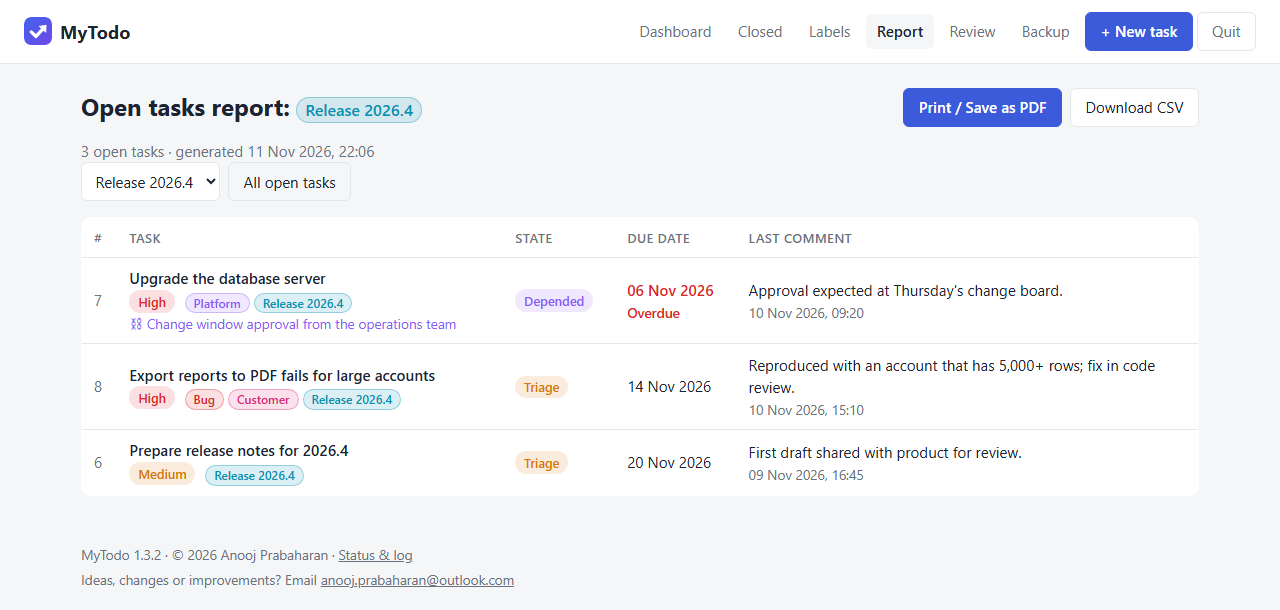
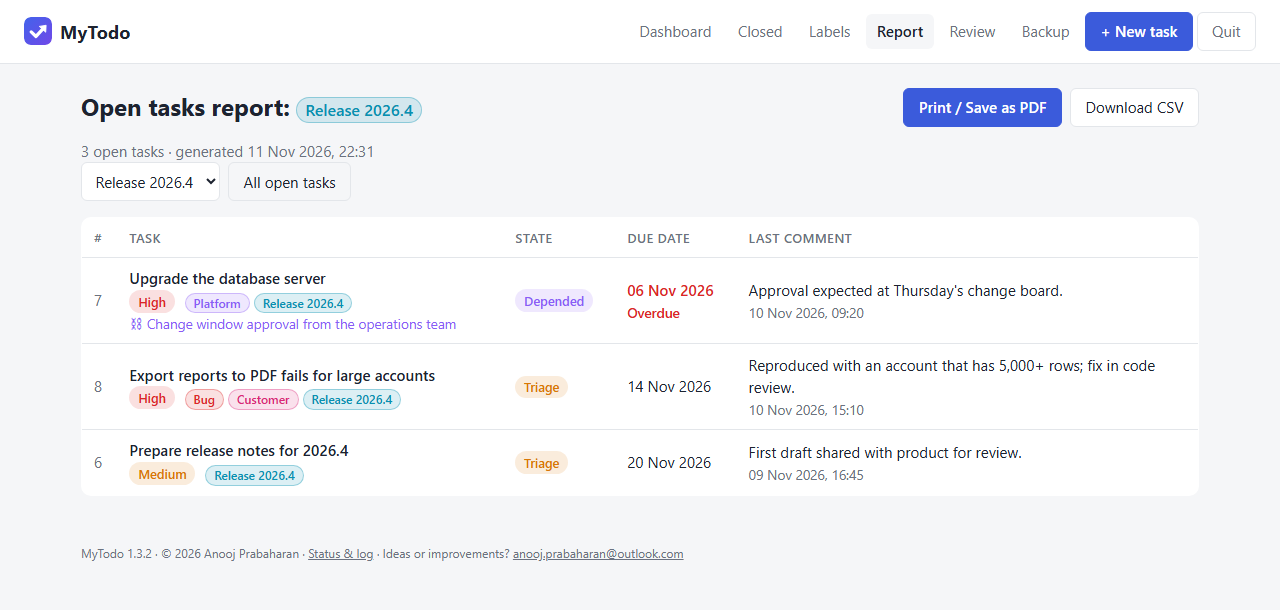
Release v1.3.3: one-line footer, updated screenshots

Changed region(s): [[0.0625, 0.9033, 0.5312, 0.9656]]

diff --git a/app.py b/app.py
@@ -30,7 +30,7 @@ import db
 import review
 import statuslog
 
-__version__ = "1.3.2"
+__version__ = "1.3.3"
 FEEDBACK_EMAIL = "anooj.prabaharan@outlook.com"
 
 # When packaged as MyTodo.exe (PyInstaller), keep the data folder next to the exe,

diff --git a/CHANGELOG.md b/CHANGELOG.md
@@ -2,6 +2,11 @@
 
 All notable changes to MyTodo. The newest version is first.
 
+## v1.3.3 (2026-11-11)
+
+- The page footer is now one compact line in a smaller font, with the version, copyright, Status & log and feedback email.
+- README screenshots updated to match.
+
 ## v1.3.2 (2026-11-11)
 
 ### Now available for Mac
